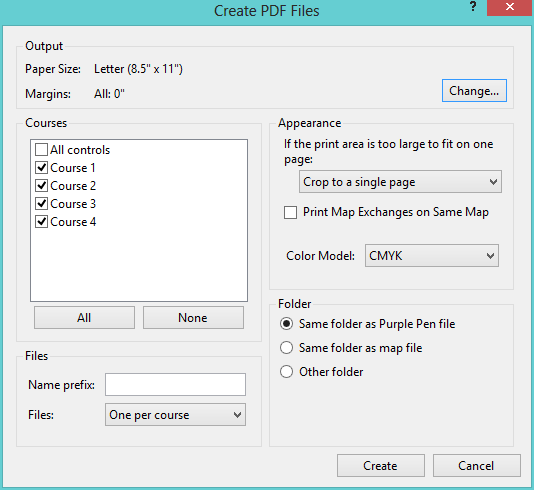
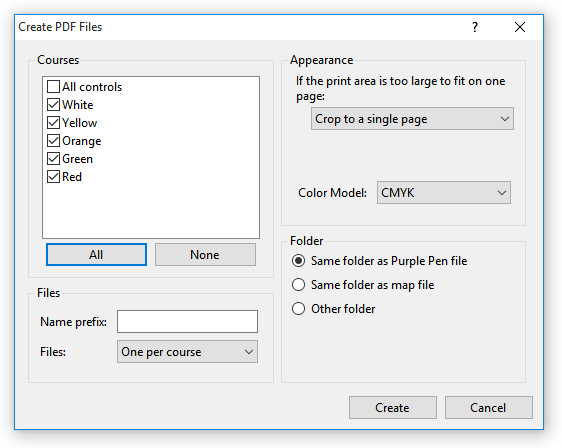
Update help file for new print area functionality.

Changed region(s): [[0.0, 0.0, 1.0, 1.0], [0.5094, 0.5, 0.8689, 0.7812], [0.2397, 0.625, 0.2697, 0.6562]]

diff --git a/doc/userdocs/Help/FileSetPrintArea.htm b/doc/userdocs/Help/FileSetPrintArea.htm
@@ -14,28 +14,26 @@
 
 <p>The Set Print Area command sets the area of the map that will be printed when
 <a href="FilePrintCourses.htm">printing courses</a>. If you do not set the print 
-area, the entire map will be printed. If you <a href="FileCreateOcadFiles.htm">
+area, the program will automatically chose a print area based on the paper size you chose when creating the event.. If you <a href="FileCreateOcadFiles.htm">
 create an OCAD file from a course</a>, the print area becomes the default print 
 area in the resulting OCAD file.</p>
 <p>There are two sub-commands: either This Course or All Courses. Just as they 
 sound, selecting &quot;This Course&quot; sets the print area for the currently displayed 
 course, selecting &quot;All Courses&quot; changes the print area for all the courses. 
 (Note: if All Controls is displayed, doing Set Print Area/This Course sets the 
-print area for when the control collection is printed.)</p>
+print area for when the control collection is printed.) When displaying a single part from a course with a map exchange, you can also set the print area for just that part.</p>
 <p>After selecting the desired sub-command, the current print area is 
-highlighted in red, and a small window appears:</p>
+highlighted in red, and a window appears:</p>
 <p>
-<img alt="Set Print Area dialog" src="SetPrintArea.png" width="207" height="155"> </p>
-<p>The displayed print area has small blue squares at each corner and along each 
-edge. These squares are used to resize the print area: press the left mouse 
-button over one of these squares, hold down the mouse button, and drag the 
-corner or edge to the desired location. While changing the print area, you can 
+<img alt="Set Print Area dialog" src="SetPrintArea.png"> </p>
+<p>In the &quot;Paper Size&quot; section, you can chose the size of the paper you wish to print on, the orientation of the paper, and the margins along the edge of the paper. The default for the paper size was set when you created the event.</p>
+    <p>If <strong>Set Print Area Automatically</strong> is checked (the default), then the print area is automatically set based on the paper size, the map, and the course on the map.</p>
+    <p>If <strong>Fix Print Area Size to Paper Size</strong> is checked, then the print area can be repositioned by dragging, but cannot be resized. If it is unchecked, you can set the print area to be larger or smaller than the paper size (small blue squares at the corners and edges of the print area allow resizing).</p>
+    <p>The displayed print area can be dragged using the mouse: position the mouse on the print area, hold down the left mouse button, and drag the print area to the has small blue squares at each corner and along each 
+edge. While changing the print area, you can 
 also <a href="Moving%20around.htm">move and zoom the map</a> as usual.</p>
 <p>Once the print area is correct, click the &quot;Done&quot; button in the Set Print Area 
 window.</p>
-<p><strong>Note: </strong>when printing courses, Purple Pen will automatically 
-crop the print area to a single printed page, best fitting the course. Thus, in 
-many cases, it is not necessary to use this command to set the print area.</p>
 <!-- #EndEditable -->
 </BODY>
 <!-- #EndTemplate -->

diff --git a/doc/userdocs/Help/FileCreatePdfFiles.htm b/doc/userdocs/Help/FileCreatePdfFiles.htm
@@ -13,7 +13,7 @@
 <h1>File/Create PDFs...</h1>
 
 <p>Creates PDF file(s) for later viewing or printing. By default, the 
-entire map will be placed in the PDF. To chose the area that will be printed, use the
+entire map will be placed in the PDF. To chose the area that will be printed, the paper size, and the paper orientation, use the
 <a href="FileSetPrintArea.htm">File/Set Print Area</a> command.</p>
     <p>Using this command is preferable to using the Print Courses command and a PDF printer driver for several reasons:</p>
     <ul>
@@ -30,10 +30,6 @@ entire map will be placed in the PDF. To chose the area that will be printed, us
 <p>
 <img alt="Print Courses Dialog" src="CreatePdfs.png"></p>
 <p>This dialog has several options to customize how PDF files are created.</p>
-<h2>Output section</h2>
-<p>This section shows the paper size that will be used, and the margins. Click <strong>Change... </strong>to change them. Be sure to pick a paper size large enough to contain your courses. The orientation of the paper (portrait or 
-landscape) is chosen automatically to fit the best.</p>
-    <p>If your base map is a PDF file, the size of that map will be used automatically and cannot be changed. </p>
 <h2>Courses section</h2>
 <p>This section shows which courses will be 
 printed. The default setting is for all courses except &quot;All Controls&quot; to be 

diff --git a/doc/userdocs/Help/FilePrintCourses.htm b/doc/userdocs/Help/FilePrintCourses.htm
@@ -24,10 +24,7 @@ dialog listing the symbols that will be printed correctly.</p>
 <img alt="Print Courses Dialog" src="PrintCourses.png" ></p>
 <p>This dialog has several options to customize the result of printing.</p>
 <h2>Output section</h2>
-<p>This section shows which printer will be used, and the paper size. Click <strong>Change Printer</strong> 
-to change which printer to use. In that dialog, click Preferences to change the 
-paper size and other printing options. The orientation of the paper (portrait or 
-landscape) is chosen automatically to fit the best. </p>
+<p>This section shows which printer will be used. Click <strong>Change Printer</strong> to change which printer to use. The paper size and orientation should be set using the <a href="FileSetPrintArea.htm">File/Set Print Area</a> command.</p>
 <h2>Courses section</h2>
 <p>This section shows which courses will be 
 printed. The default setting is for all courses except &quot;All Controls&quot; to be 

diff --git a/doc/userdocs/Help/CreatingNewEvent.htm b/doc/userdocs/Help/CreatingNewEvent.htm
@@ -51,6 +51,14 @@ of the time, this will be the same as the scale of the map, so unless you know
 want to print at a different scale, just click Next. (Note: when creating a new 
 course, you will have the option to change the print scale, so you can have 
 different scales for different courses.)</p>
+<h2>Paper Size</h2>
+<p>Next, chose the size of paper and orientation that you will use to print
+the map. Purple Pen will attempt to automatically chose a paper size that 
+fits your map, but you should review this choice and change it if necessary.
+(Note: you can change this setting later, or even use different paper sizes
+for different courses, by using the 
+<a href="FileSetPrintArea.htm">File/Set Print Area</a> command.)
+</p>
 <h2>Event File Location</h2>
 <p>Next, choose the folder where the file that stores your event will be stored. 
 Purple Pen events are stored in a file with the file extension &quot;.ppen&quot;. The name 

diff --git a/doc/userdocs/Help/ViewShowPrintArea.htm b/doc/userdocs/Help/ViewShowPrintArea.htm
@@ -1,0 +1,22 @@
+<!DOCTYPE HTML PUBLIC "-//IETF//DTD HTML//EN">
+<HTML xmlns="http://www.w3.org/1999/xhtml">
+<!-- #BeginTemplate "master.dwt" -->
+<HEAD>
+<meta name="GENERATOR" content="Microsoft&reg; HTML Help Workshop 4.1">
+<link rel=stylesheet href="StyleSheet.css" type="text/css">
+<!-- #BeginEditable "doctitle" -->
+<title>View/Show Print Area</title>
+<!-- #EndEditable -->
+</HEAD>
+<BODY>
+<!-- #BeginEditable "content" -->
+<h1>View/Show Print Area</h1>
+<p>Turns on or off display of the print area. It is on by default. </p>
+<p>If print area display is on, then the area that will be printed is shown surrounded by light gray. For large maps, this allows
+seeing the exactl area of the map that will be printed.
+</p>
+<p>&nbsp;</p>
+<!-- #EndEditable -->
+</BODY>
+<!-- #EndTemplate -->
+</HTML>

diff --git a/doc/userdocs/Help/ViewMenu.htm b/doc/userdocs/Help/ViewMenu.htm
@@ -16,6 +16,7 @@
 <p><a href="ViewZoom.htm">Zoom</a></p>
 <p><a href="ViewMapIntensity.htm">Map Intensity</a></p>
 <p><a href="ViewMapQuality.htm">Map Quality</a></p>
+<p><a href="ViewShowPrintArea.htm">Show Print Area</a></p>
 <p><a href="ViewShowPopupInfo.htm">Show Popup Information</a></p>
 <p><a href="ViewAllControls.htm">All Controls</a></p>
 
